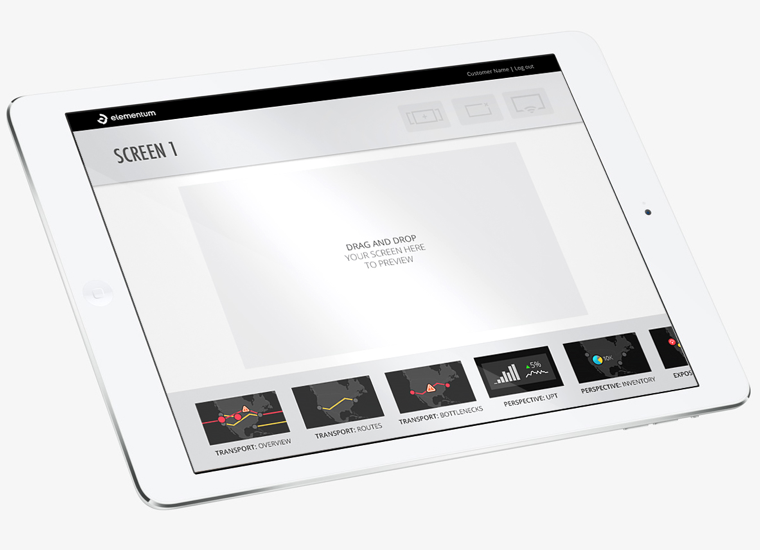
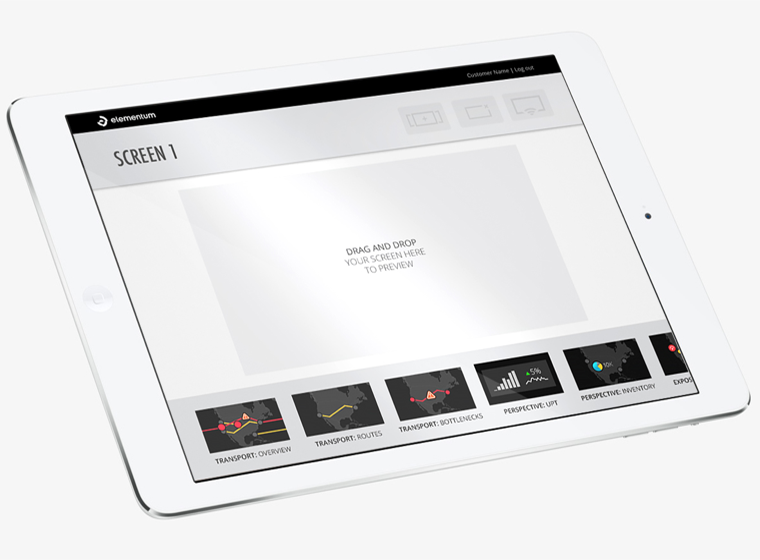
update size of remote img- non compressed for now

diff --git a/index.html b/index.html
@@ -276,7 +276,7 @@
 									<a href="#!projects/project_carousel_remote_app.html">
 									<div class="project-container">
 										<div class="image-container">
-											<img src="/images/projects/remote_app_compressed.png" alt="" class="img-responsive">
+											<img src="/images/projects/remote_app.png" alt="" class="img-responsive">
 										</div>
 										<div class="project-details">
 											<div class="details-container">
